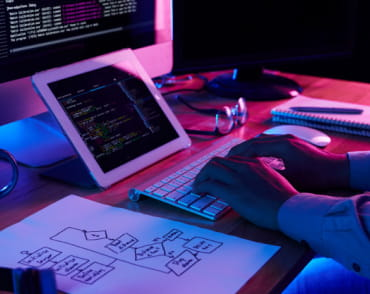
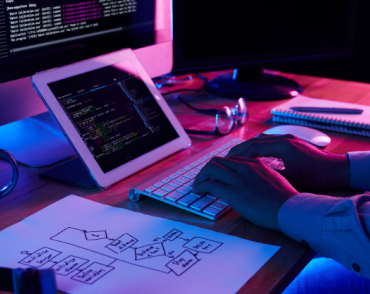
Додав членів команди та оптимізовані фото

diff --git a/index.html b/index.html
@@ -5,7 +5,7 @@
     <meta charset="UTF-8">
     <meta http-equiv="X-UA-Compatible" content="IE=edge">
     <meta name="viewport" content="width=device-width, initial-scale=1.0">
-    <title>Document</title>
+    <title>WebStudio</title>
 </head>
 
 <body>
@@ -52,13 +52,36 @@
         <section>
             <h2>Чим ми займаємося</h2>
             <ul>
-                <li><a href=""><img src="" alt="Написання коду"></a></li>
-                <li><a href=""><img src="" alt="Адаптація для мобільних пристроїв"></a></li>
-                <li><a href=""><img src="" alt="Стилізація"></a></li>
+                <li><a href=""><img src="images/whatwedo1.jpg" width="370" height="294" alt="Написання коду"></a></li>
+                <li><a href=""><img src="images/whatwedo2.jpg" width="370" height="294"
+                            alt="Адаптація для мобільних пристроїв"></a></li>
+                <li><a href=""><img src="images/whatwedo3.jpg" width="370" height="294" alt="Стилізація"></a></li>
             </ul>
         </section>
-    </main>
+        <section>
+            <h2>Наша команда</h2>
+            <ul>
+                <li><img src="images/colegue1.jpg" width="270" height="260" alt="Член команди">
+                    <p>Ігор Дем'яненко</p>
+                    <p>Product Designer</p>
+                </li>
+                <li><img src="images/colegue2.jpg" width="270" height="260" alt="Член команди">
+                    <p>Ольга Рєпіна</p>
+                    <p>Frontend Developer</p>
+                </li>
+                <li><img src="images/colegue3.jpg" width="270" height="260" alt="Член команди">
+                    <p>Микола Тарасов</p>
+                    <p>Marketing</p>
+                </li>
+                <li><img src="images/colegue4.jpg" width="270" height="260" alt="Член команди">
+                    <p>Михайло Єрмаков</p>
+                    <p>UI Designer</p>
+                </li>
+            </ul>
 
+        </section>
+    </main>
+    <!-- Підвал -->
     <footer>
     </footer>
 </body>
